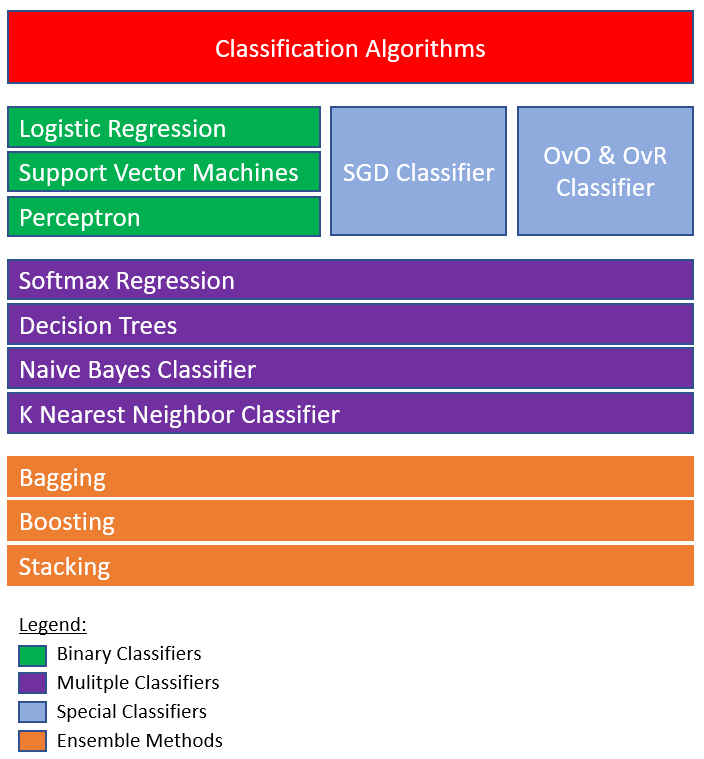
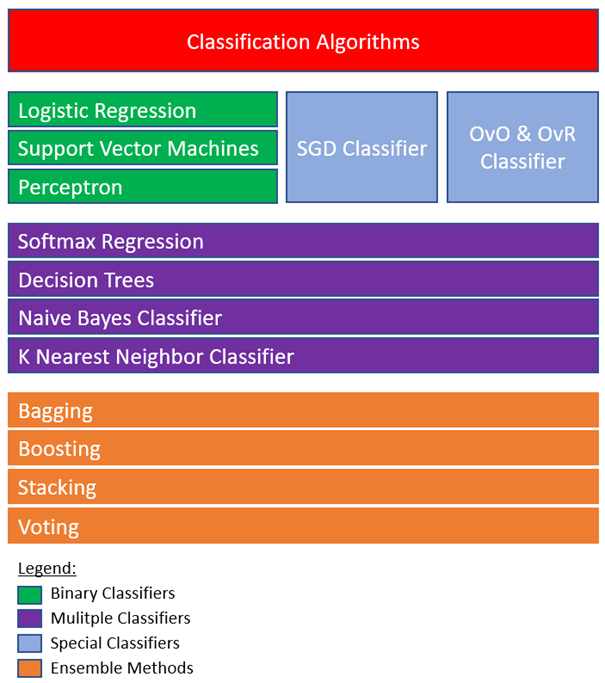
add voting classifier to roadmap for classification

diff --git a/public/2020/02/19/roadmap-for-classification-tasks/index.html b/public/2020/02/19/roadmap-for-classification-tasks/index.html
@@ -71,6 +71,7 @@
 
     <div class="article-content">
       
+<script src="/rmarkdown-libs/header-attrs/header-attrs.js"></script>
 
 
 <div id="table-of-content" class="section level1">
@@ -140,10 +141,19 @@
 <li><a href="https://michael-fuchs-python.netlify.app/2020/03/07/ensemble-modeling-bagging/">Bagging</a></li>
 <li><a href="https://michael-fuchs-python.netlify.app/2020/03/26/ensemble-modeling-boosting/">Boosting</a></li>
 <li><a href="https://michael-fuchs-python.netlify.app/2020/04/24/ensemble-modeling-stacking/">Stacking</a></li>
+<li><a href="https://michael-fuchs-python.netlify.app/2020/04/29/stacking-with-scikit-learn/">Stacking with scikit-learn</a></li>
+<li><a href="https://michael-fuchs-python.netlify.app/2020/05/05/ensemble-modeling-voting//">Voting</a></li>
 </ul>
 <p><strong>Notes on the special classifiers:</strong></p>
 <p>As described in the <a href="https://michael-fuchs-python.netlify.com/2019/11/11/introduction-to-sgd-classifier/">SGD Classifier</a> post, this is not a classifier. It’s a linear classifier optimized by the Stochastic Gradient Descent.</p>
 <p>With the <a href="https://michael-fuchs-python.netlify.com/2019/11/13/ovo-and-ovr-classifier/">One-vs-One and One-vs-Rest</a> method it is possible to make binary classifiers multiple.</p>
+<p><strong>Notes on ensemble methods:</strong></p>
+<p>Depending on the underlying problem with the predictions I choose the following ensemble method:</p>
+<ul>
+<li>Bagging: Decrease Variance</li>
+<li>Boosting: Decrease Bias</li>
+<li>Stacking: Improve Predictions</li>
+</ul>
 </div>
 <div id="conclusion" class="section level1">
 <h1>3 Conclusion</h1>

diff --git a/content/post/2020-02-19-roadmap-for-classification-tasks.html b/content/post/2020-02-19-roadmap-for-classification-tasks.html
@@ -9,6 +9,7 @@ tags:
   - R Markdown
 ---
 
+<script src="/rmarkdown-libs/header-attrs/header-attrs.js"></script>
 
 
 <div id="table-of-content" class="section level1">
@@ -78,10 +79,19 @@ tags:
 <li><a href="https://michael-fuchs-python.netlify.app/2020/03/07/ensemble-modeling-bagging/">Bagging</a></li>
 <li><a href="https://michael-fuchs-python.netlify.app/2020/03/26/ensemble-modeling-boosting/">Boosting</a></li>
 <li><a href="https://michael-fuchs-python.netlify.app/2020/04/24/ensemble-modeling-stacking/">Stacking</a></li>
+<li><a href="https://michael-fuchs-python.netlify.app/2020/04/29/stacking-with-scikit-learn/">Stacking with scikit-learn</a></li>
+<li><a href="https://michael-fuchs-python.netlify.app/2020/05/05/ensemble-modeling-voting//">Voting</a></li>
 </ul>
 <p><strong>Notes on the special classifiers:</strong></p>
 <p>As described in the <a href="https://michael-fuchs-python.netlify.com/2019/11/11/introduction-to-sgd-classifier/">SGD Classifier</a> post, this is not a classifier. It’s a linear classifier optimized by the Stochastic Gradient Descent.</p>
 <p>With the <a href="https://michael-fuchs-python.netlify.com/2019/11/13/ovo-and-ovr-classifier/">One-vs-One and One-vs-Rest</a> method it is possible to make binary classifiers multiple.</p>
+<p><strong>Notes on ensemble methods:</strong></p>
+<p>Depending on the underlying problem with the predictions I choose the following ensemble method:</p>
+<ul>
+<li>Bagging: Decrease Variance</li>
+<li>Boosting: Decrease Bias</li>
+<li>Stacking: Improve Predictions</li>
+</ul>
 </div>
 <div id="conclusion" class="section level1">
 <h1>3 Conclusion</h1>
